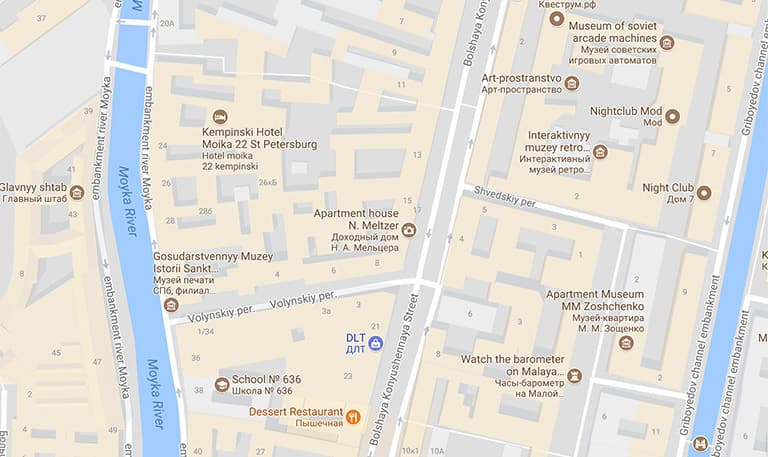
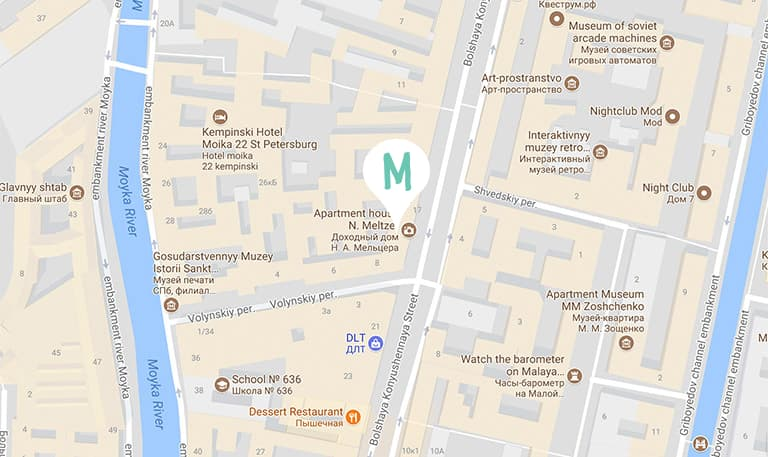
Мобильная версия контактов

Changed region(s): [[0.4688, 0.3063, 0.5625, 0.4902]]

diff --git a/src/components/Contacts/Contacts.scss b/src/components/Contacts/Contacts.scss
@@ -1,0 +1,52 @@
+.Contacts {
+	padding-top: 44px;
+	padding-bottom: 40px;
+
+	@include vpDesktop {
+		padding-right: $paddingFluid;
+		padding-left: $paddingFluid;
+	}
+}
+
+.Contacts__body {
+	padding: 0 30px;
+
+	@include vpTabletDesktop {
+		padding-right: 50px;
+		padding-left: 50px;
+	}
+}
+
+.Contacts__heading {
+	margin: 0 0 28px;
+}
+
+.Contacts__details {
+	display: grid;
+	grid-template-columns: 60px 1fr;
+	gap: 30px 18px;
+	margin: 0 0 62px;
+	font-size: 14px;
+	line-height: 30px;
+	color: $colorCharcoal;
+}
+
+.Contacts__item {
+	margin: 0;
+	overflow-wrap: anywhere;
+
+	a {
+		text-decoration: none;
+		border-bottom: 1px solid $colorDownyTertiary;
+	}
+}
+
+.Contacts__map {
+	height: 454px;
+	margin-bottom: 42px;
+}
+
+.Contacts__button {
+	display: block;
+	margin: 0 30px;
+}

diff --git a/src/components/PromoLinks/PromoLinks.scss b/src/components/PromoLinks/PromoLinks.scss
@@ -40,7 +40,7 @@
 
 	@include hoverFocus {
 		padding-bottom: 36px;
-		background-color: $colorDownyAlter;
+		background-color: $colorDownySecondary;
 
 		&::before {
 			opacity: 0.7;
@@ -49,7 +49,7 @@
 
 	@include active {
 		padding-bottom: 36px;
-		background-color: $colorDownyAlter;
+		background-color: $colorDownySecondary;
 
 		&::before {
 			opacity: 0.3;

diff --git a/src/styles/variables.scss b/src/styles/variables.scss
@@ -4,7 +4,8 @@ $colorBlack: #000000;
 $colorCharcoal: #444444;
 $colorDarkCyan: #149080;
 $colorDowny: #63d1bb;
-$colorDownyAlter: #59d5bc;
+$colorDownySecondary: #59d5bc;
+$colorDownyTertiary: #62d1ba;
 $colorPuertoRico: #56c3b2;
 $colorPuertoRicoAlter: #46c1ae;
 $colorSnow: #f9f9f9;

diff --git a/src/components/Map/Map.scss b/src/components/Map/Map.scss
@@ -1,0 +1,9 @@
+.Map__picture {
+	height: 100%;
+
+	img {
+		width: 100%;
+		height: 100%;
+		object-fit: cover;
+	}
+}

diff --git a/src/components/PageFooter/PageFooter.scss b/src/components/PageFooter/PageFooter.scss
@@ -1,0 +1,7 @@
+.PageFooter {
+	background-color: $colorWhiteSmoke;
+}
+
+.PageFooter__socials {
+	margin: 0;
+}

diff --git a/src/components/Socials/Socials.scss b/src/components/Socials/Socials.scss
@@ -1,0 +1,3 @@
+.Socials {
+	@include listReset(false);
+}
